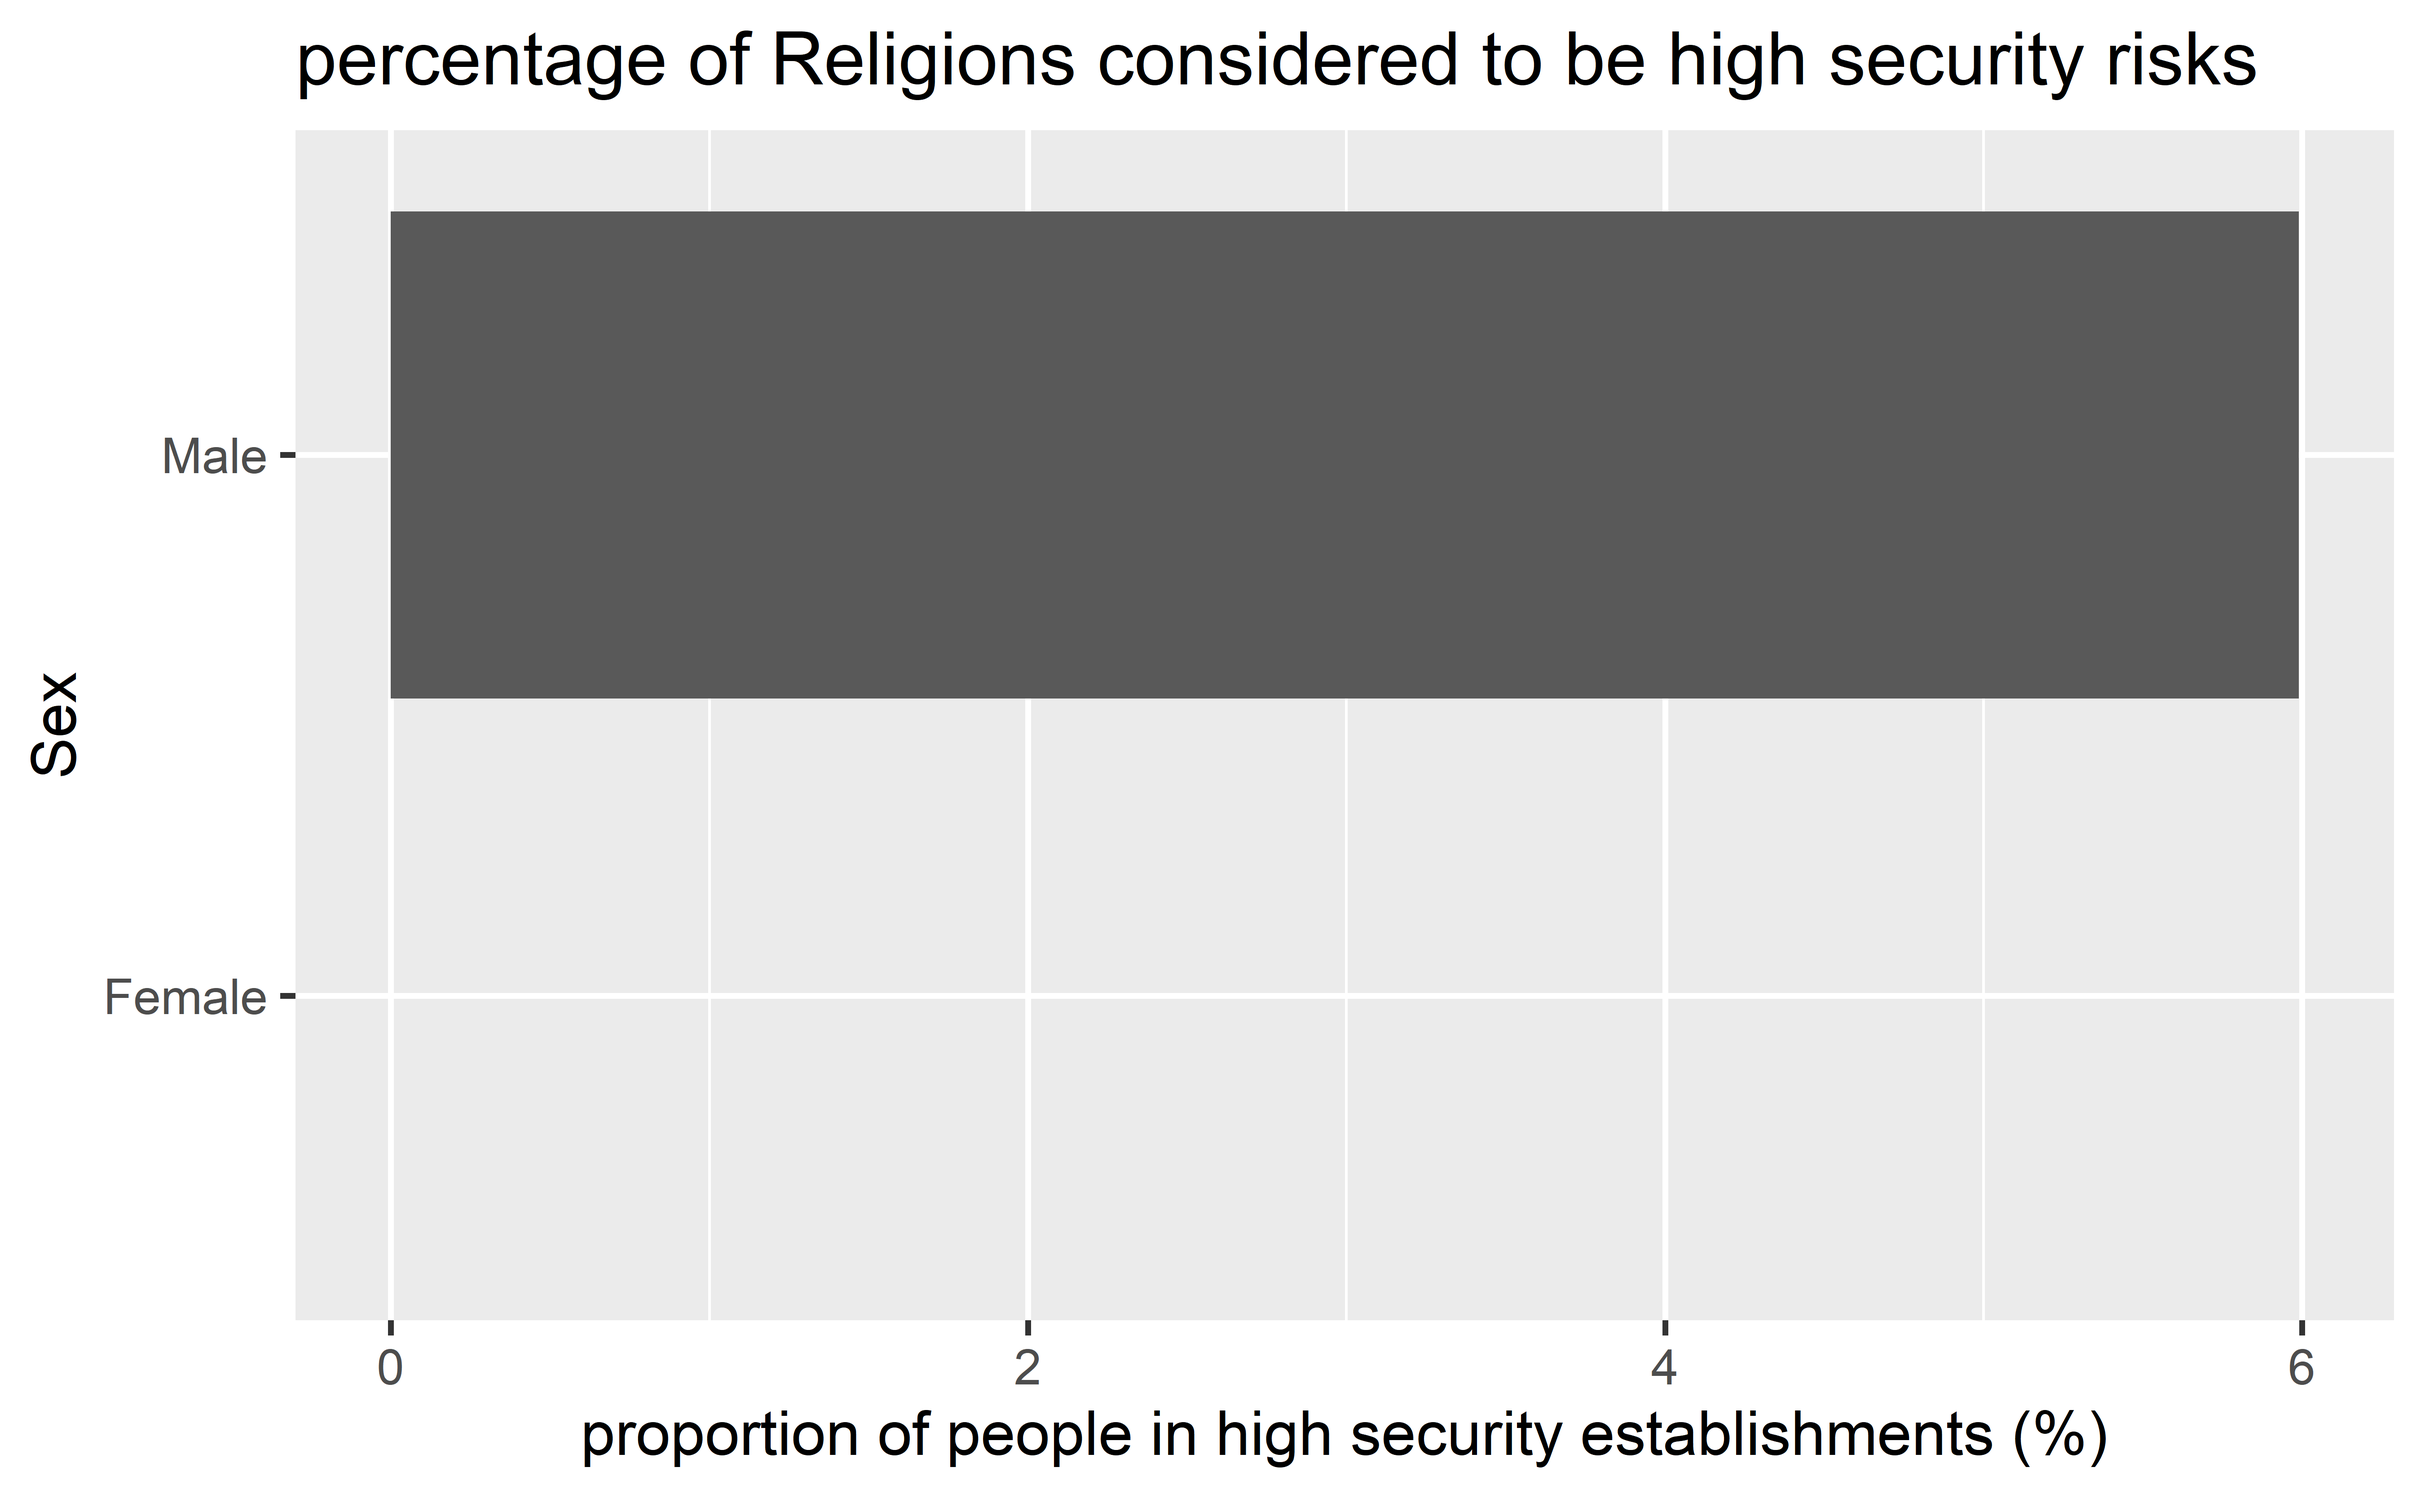
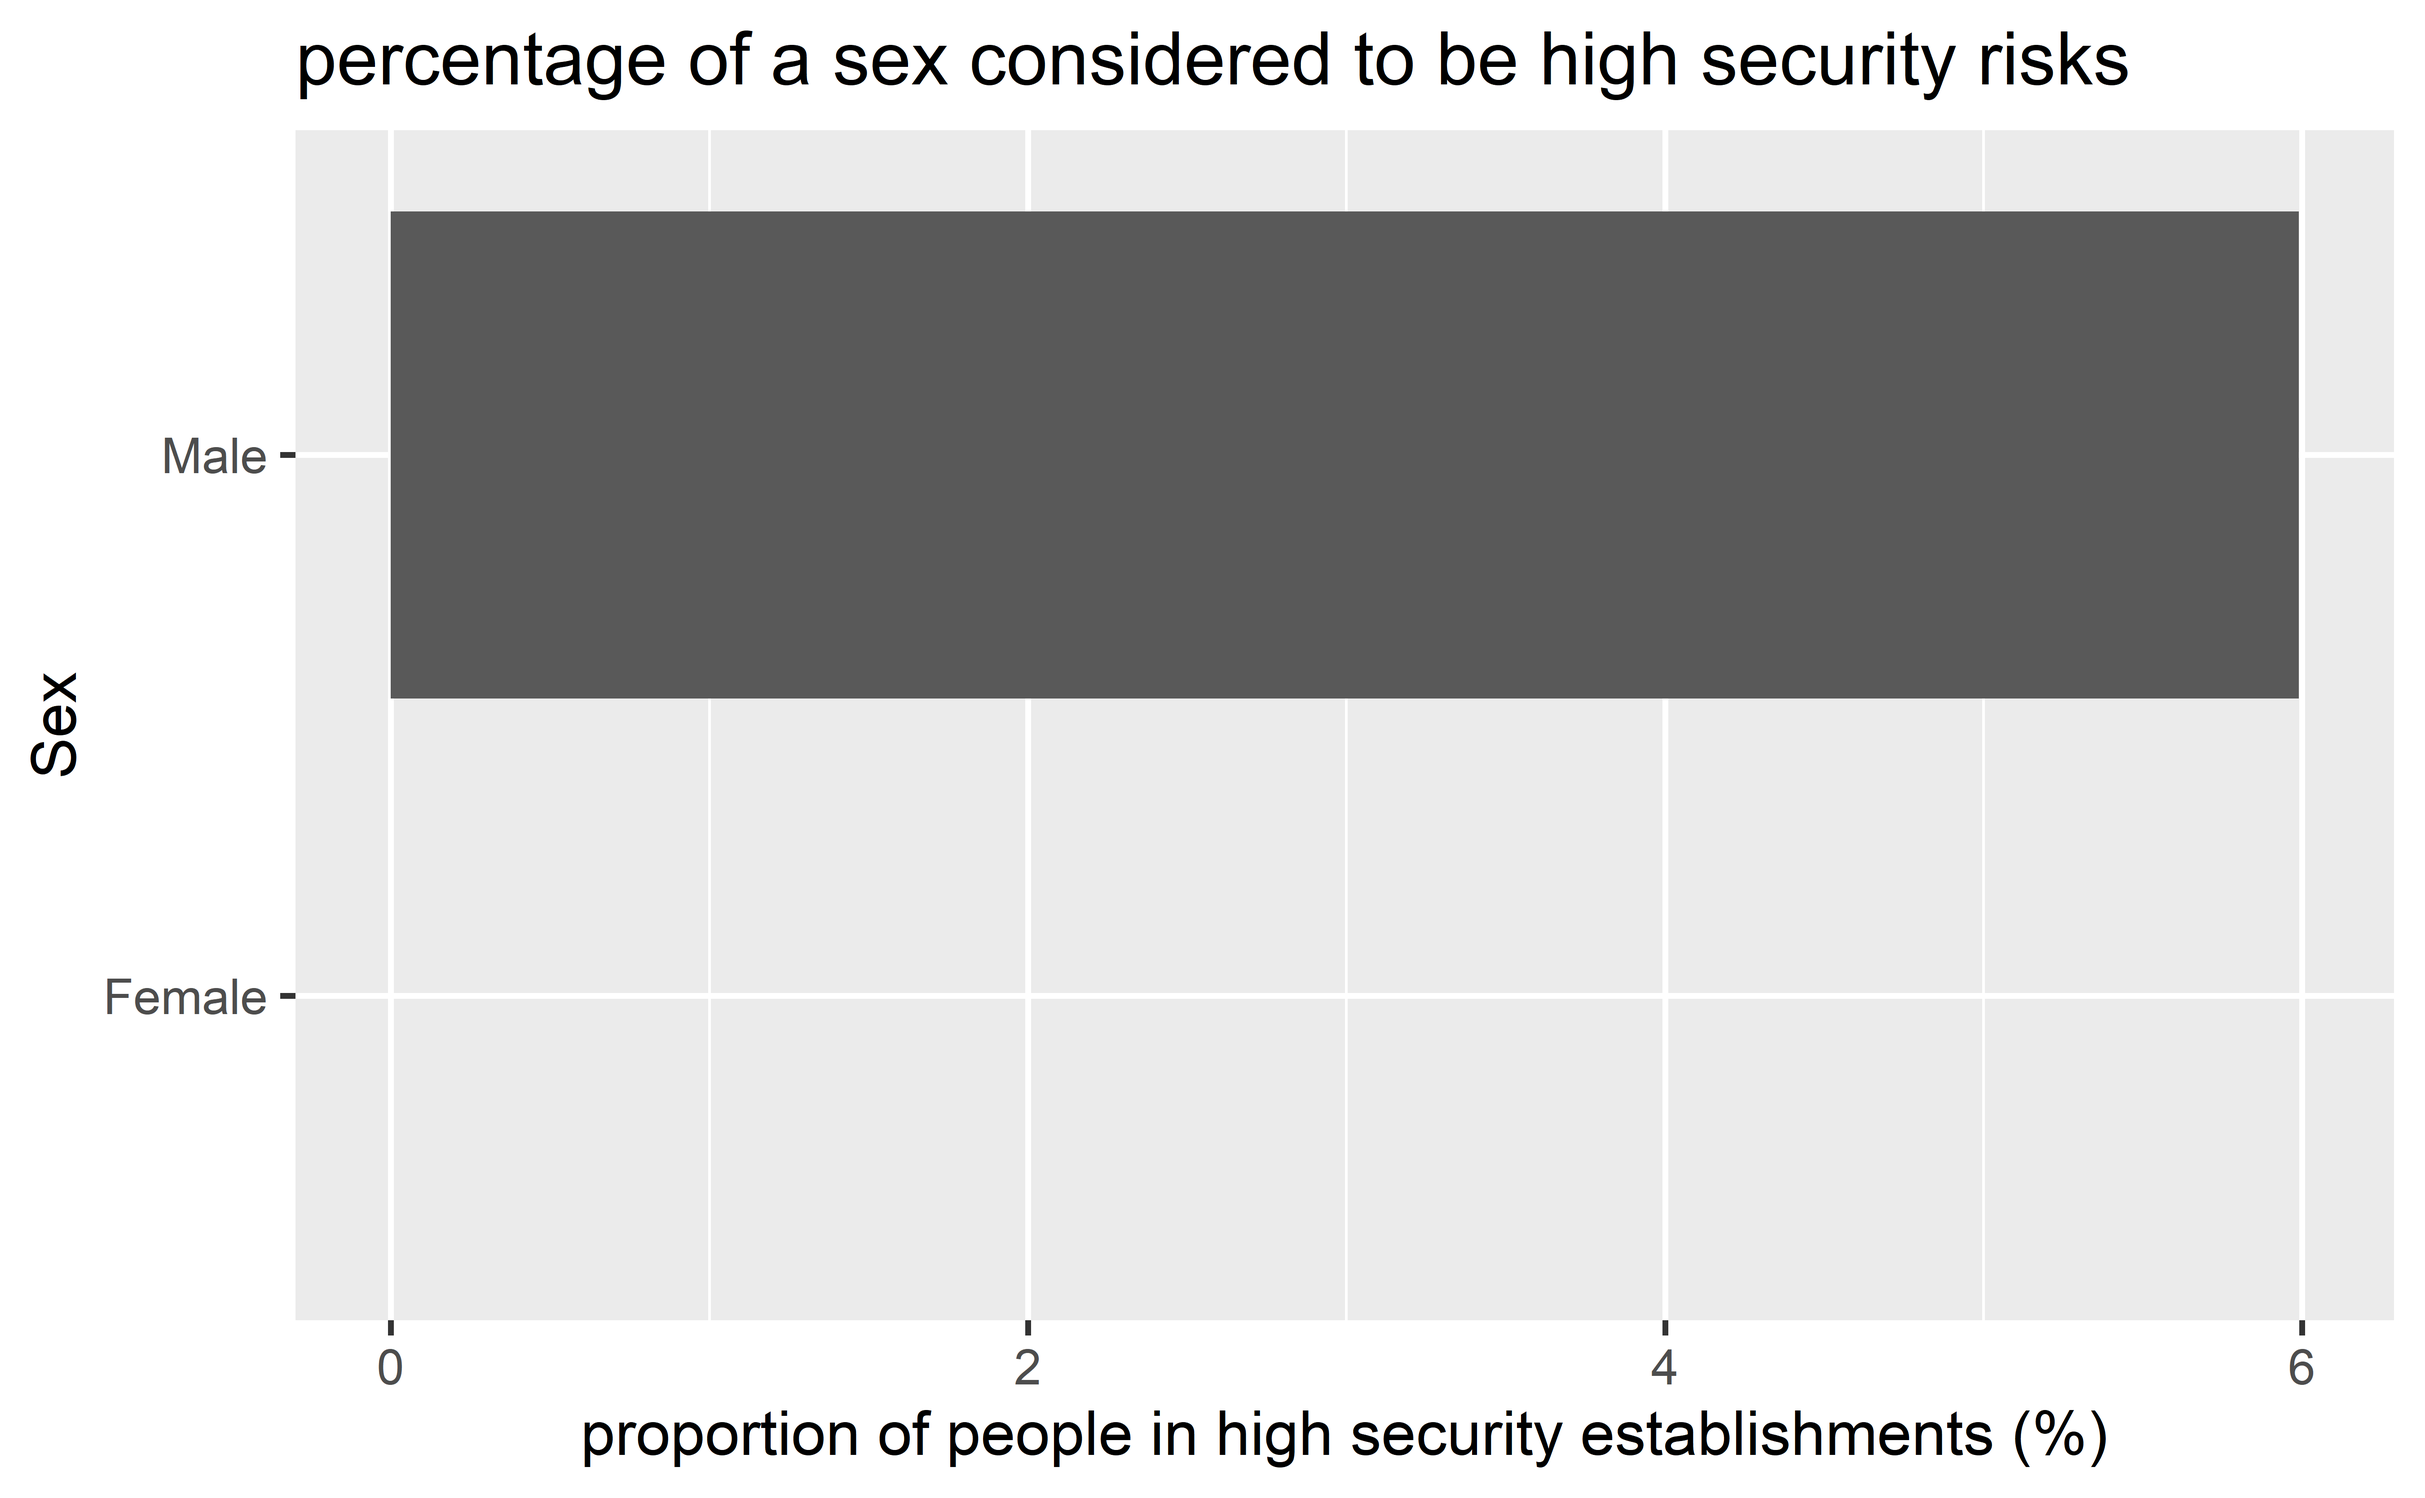
final

Changed region(s): [[0.3111, 0.0, 0.9333, 0.0623]]

diff --git a/presentation.html b/presentation.html
@@ -84,16 +84,36 @@ class: inverse, center, middle
 
 # Sentencing and how it is affected by a potential criminals demographics
 
-- The prison inmate disparities respective to the United states are widely publicised and well known. Especially their biased statistic of having a majority African american comprised population of inmates.
+- The prison inmate disparities respective to the United states are widely publicized and well known. 
 
-- I decided to investigate these demographics within the prison system to see if they were reflected within our own prison system. 
+- Bias is predominantly towards the increased conviction of African american and Latino individuals.
 
-- I decided to focus on how already convicted inmates were treated so the dataset I used was one of internal punishments in prisons. e.g. loss of privileges, solitary confinement, warning.
+- These individuals expereince also expereince unfair treatment within the system when compared to their white counterparts.
+
+- I investigated these demographics as well as others within our prison system  to see if these biases were reflected within our own prison system. 
+
+- focus on already incarcerated individuals and treatment
+
+---
+
+#initial cleaning and methodology
+
+- prior to accessing the dataset it was corrupted.
+
+- file type 
+
+- "." used in place of NA
+
+- problematic variable names
 
 
 ---
 
 # the dataset
+
+- acquired from 2021 review of the prison system and it's inhabitants
+
+- over 10,000+ entries.
 
 - the variables that I was particularly interested in were: sex, religion, ethnicity, age, punishment and punishment length.  
 
@@ -108,7 +128,7 @@ class: inverse, center, middle
 
 # solitary confinement lengths
 
-- the legal maximum for solitary confinement for the purpose of punishmen is 21 days in the UK
+- the final punishment before escalating a crime to a criminal trial is that of solitary confinement. the legal maximum for solitary confinement for the purpose of punishment is 21 days in the UK
 
 &lt;img src="presentation_files/figure-html/solitary-age-1.png" width="80%" /&gt;
 
@@ -117,23 +137,33 @@ class: inverse, center, middle
 
 #classification of high risk inmates
 
-- all inmates are objectively classified on their risk to the public and their potential risk to other inmates from A to youth facility
+- all inmates are objectively classified on their risk to the public and their potential risk to other inmates from A to being housed in a youth facility
 
 &lt;img src="presentation_files/figure-html/highriskreligion-1.png" width="80%" /&gt;
 
 ---
 # high risk inmates part 2
 
+- female prisoners can legally be classified as class A however so far there is no Class A facilities for females which results in:
+
 &lt;img src="presentation_files/figure-html/highrisksex-1.png" width="80%" /&gt;
 
 ---
 
-#analysis 
+# Findings
 
 - all variables i.e. sex, ethnicity, age and religion all had respective areas where one was being biased.
 
+- those aged at polar ends of the spectrum experience lower times in solitary confinement.
 
-- 
+- Muslims and Jewish people are more likely to be classified as high risk individuals as well as men.
+
+---
+
+#analysis
+
+- those in marginalised groups are more likely to be further discriminated and placed in groups
+
 
 ---
     </textarea>
